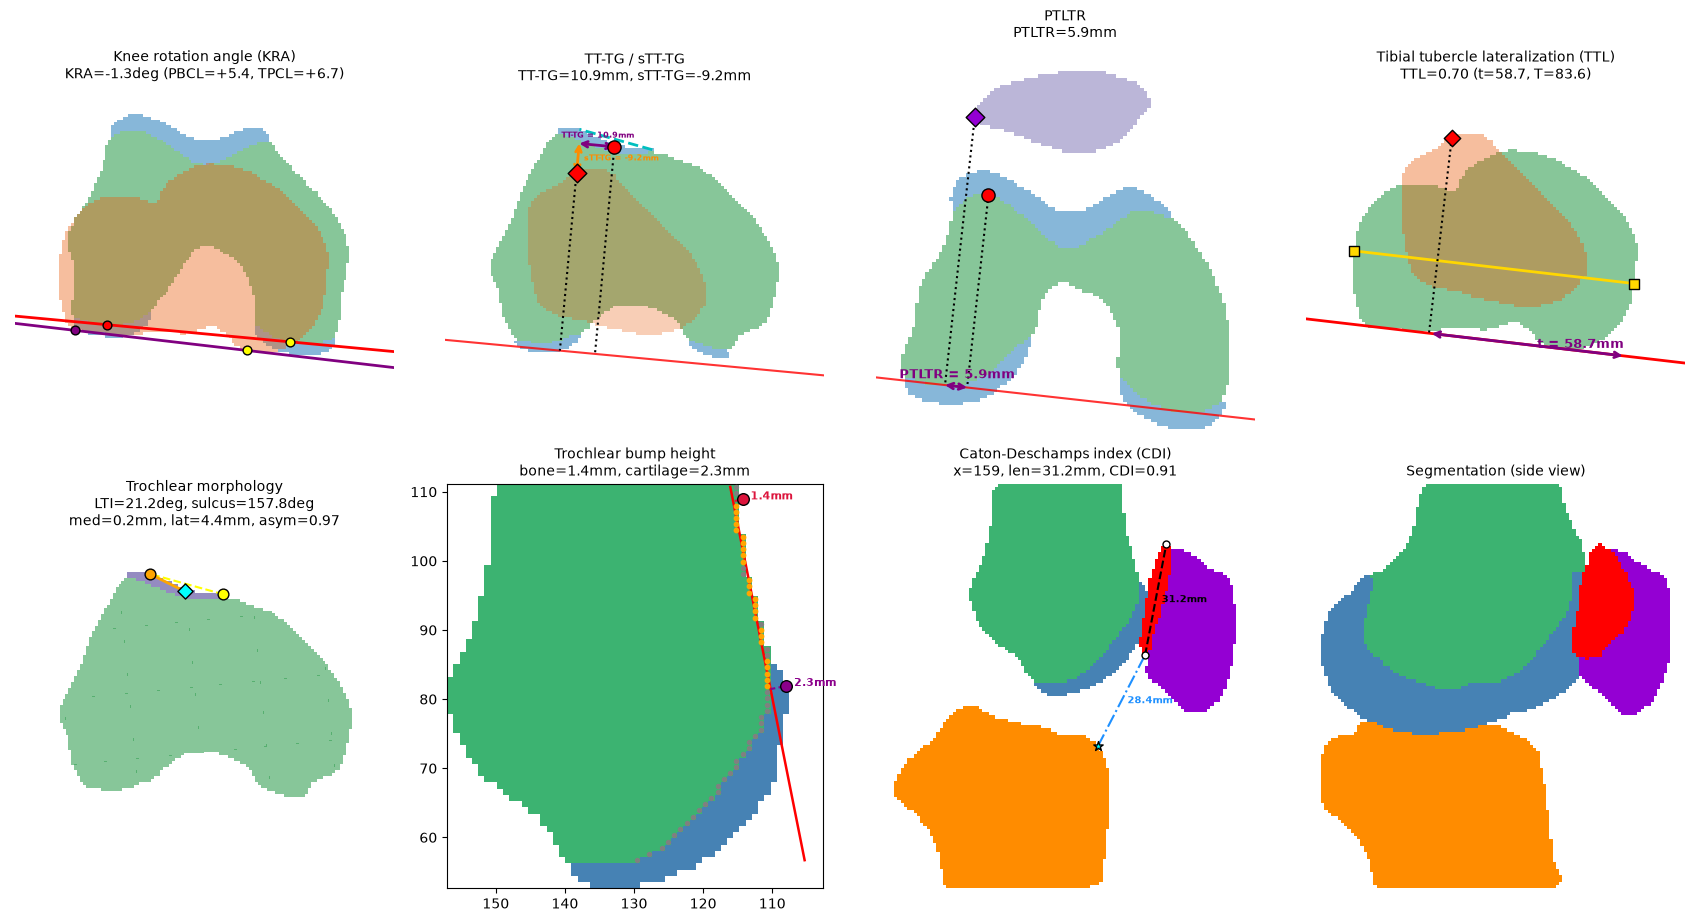
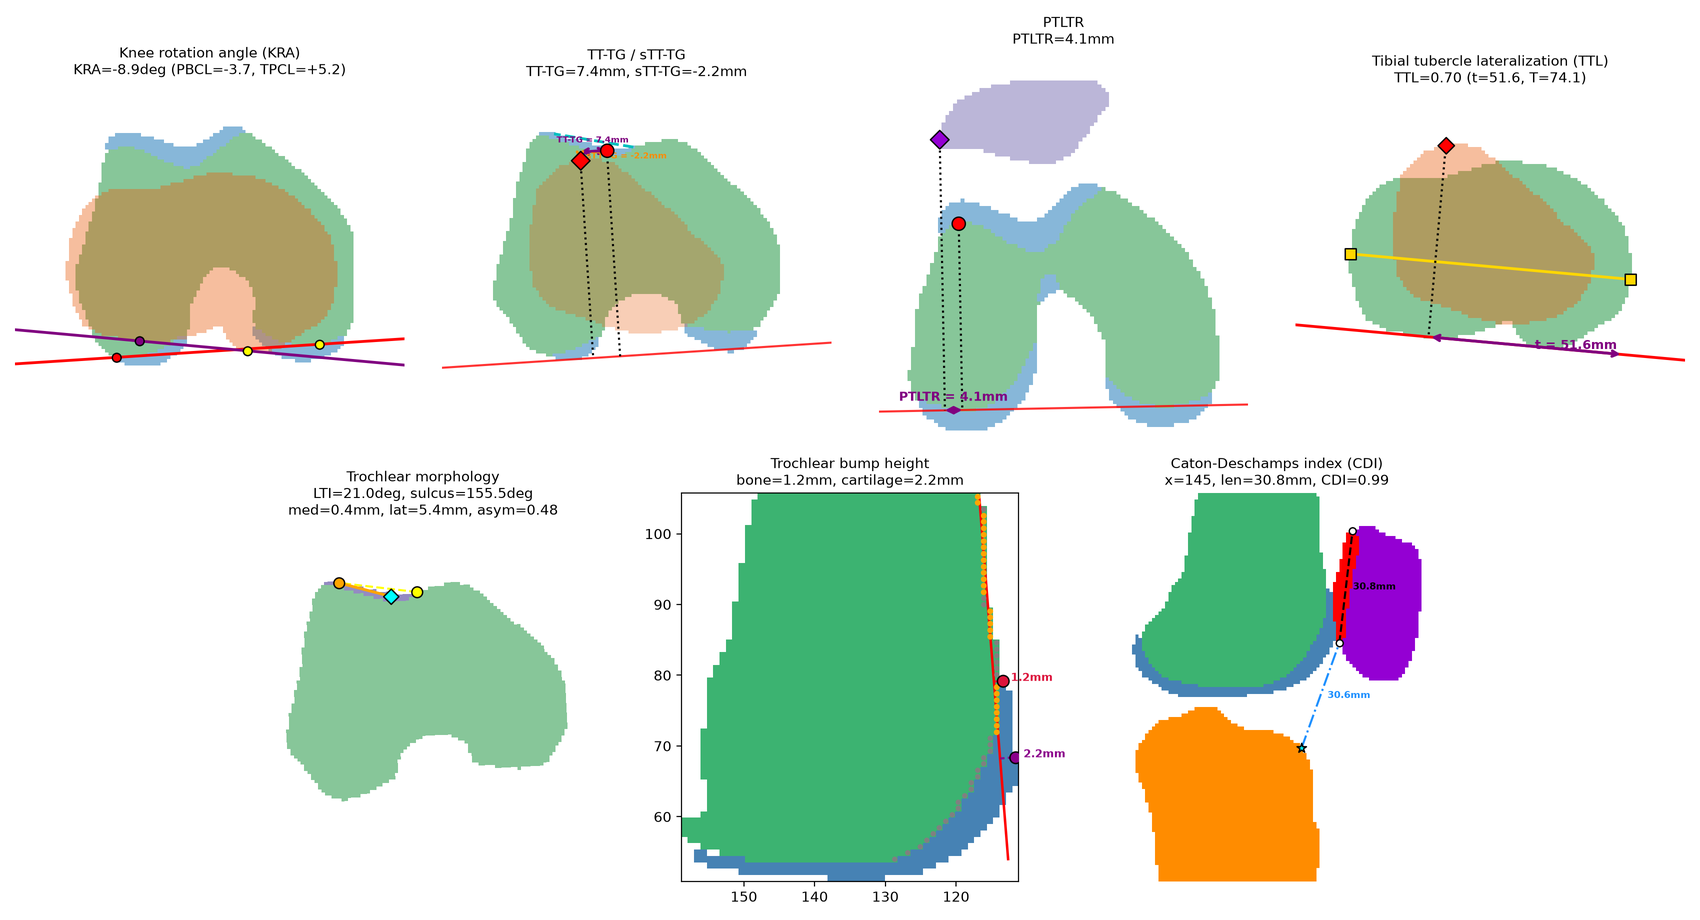
README: figure from another knee, centred acronym, shorter measurement table
The figure now shows one knee's seven measurement panels (no side view); the
KAMINO letters are a centred table, and the measurements table lists each
abbreviation and what it stands for.

diff --git a/README.md b/README.md
@@ -2,9 +2,12 @@
 
 <p align="center"><b>K</b>nee <b>A</b>natomy <b>M</b>easurements from <b>I</b>maging and <b>N</b>etwork <b>O</b>utput</p>
 
-| **K** | **A** | **M** | **I** | **N** | **O** |
-|:---:|:---:|:---:|:---:|:---:|:---:|
-| Knee | Anatomy | Measurements | Imaging | Network | Output |
+<div align="center">
+<table align="center">
+  <tr align="center"><th>K</th><th>A</th><th>M</th><th>I</th><th>N</th><th>O</th></tr>
+  <tr align="center"><td>Knee</td><td>Anatomy</td><td>Measurements</td><td>Imaging</td><td>Network</td><td>Output</td></tr>
+</table>
+</div>
 
 Automated patellofemoral and tibiofemoral measurements from knee MRI segmentations, with
 QC images of every measurement and an app for checking the landmarks a person should see.
@@ -17,22 +20,20 @@ Everything runs on your own computer; no scan or result leaves it.
 
 ## What it measures
 
-| Measurement | What it describes | Unit | Checked in the app |
-|---|---|---|---|
-| **Knee rotation angle (KRA)** | Rotation of the tibia relative to the femur: the tibial posterior condylar line against the femoral posterior bicondylar line (+ = tibial external rotation) | deg | Tibial line |
-| **TT-TG** | Side-to-side distance from the tibial tuberosity to the trochlear groove | mm | Tuberosity, cartilage sulcus |
-| **sTT-TG** | Front-to-back distance from the tibial tuberosity to the trochlear groove (− = tuberosity behind the groove) | mm | Tuberosity, cartilage sulcus |
-| **PTLTR** | How far the patella's lateral edge reaches past the lateral trochlear ridge | mm | – |
-| **Tibial tubercle lateralization (TTL)** | Position of the tuberosity across the tibia, as t / T (t: medial tibial edge to the tuberosity; T: tibial width) | ratio, mm | Tuberosity, tibial line |
-| **Lateral trochlear inclination (LTI)** | Slope of the lateral trochlear facet against the posterior condyles | deg | Cartilage sulcus |
-| **Sulcus angle** | Opening angle of the trochlear groove, on the cartilage surface | deg | Cartilage sulcus |
-| **Trochlear depth, facet depths** | Depth of the groove below its two facets, and each facet's height | mm | Cartilage sulcus |
-| **Facet lengths and asymmetry** | Length of the medial and lateral facets, and medial / lateral | mm, ratio | Cartilage sulcus |
-| **Trochlear bump height** | How far the trochlea (bone and cartilage) stands in front of the femoral shaft | mm | – |
-| **Caton-Deschamps index (CDI)** | Patellar height: patellar cartilage to the tibia, over the cartilage length | ratio | – |
+| Measurement | Stands for |
+|---|---|
+| **KRA** | Knee rotation angle |
+| **TT-TG** | Tibial tubercle–trochlear groove distance |
+| **sTT-TG** | Sagittal tibial tubercle–trochlear groove distance |
+| **PTLTR** | Patella–lateral trochlear ridge distance |
+| **TTL** | Tibial tubercle lateralization |
+| **LTI** | Lateral trochlear inclination |
+| **Sulcus angle** | Trochlear sulcus angle |
+| **Trochlear depth** | Trochlear groove depth, with the medial and lateral facet depths |
+| **Facet lengths** | Medial and lateral trochlear facet lengths, and their asymmetry |
+| **Bump height** | Trochlear bump height, bone and cartilage |
+| **CDI** | Caton-Deschamps index |
 
-- **Checked in the app:** the landmarks a person reviews before the value is final; the
-  others are fully automatic and shown in the QC grids.
 - **Exact definitions:** the column names in `measurements.csv` are in
   [Measurements](#measurements) below, and how each is calculated is in
   `Measurement methods.xlsx`.
